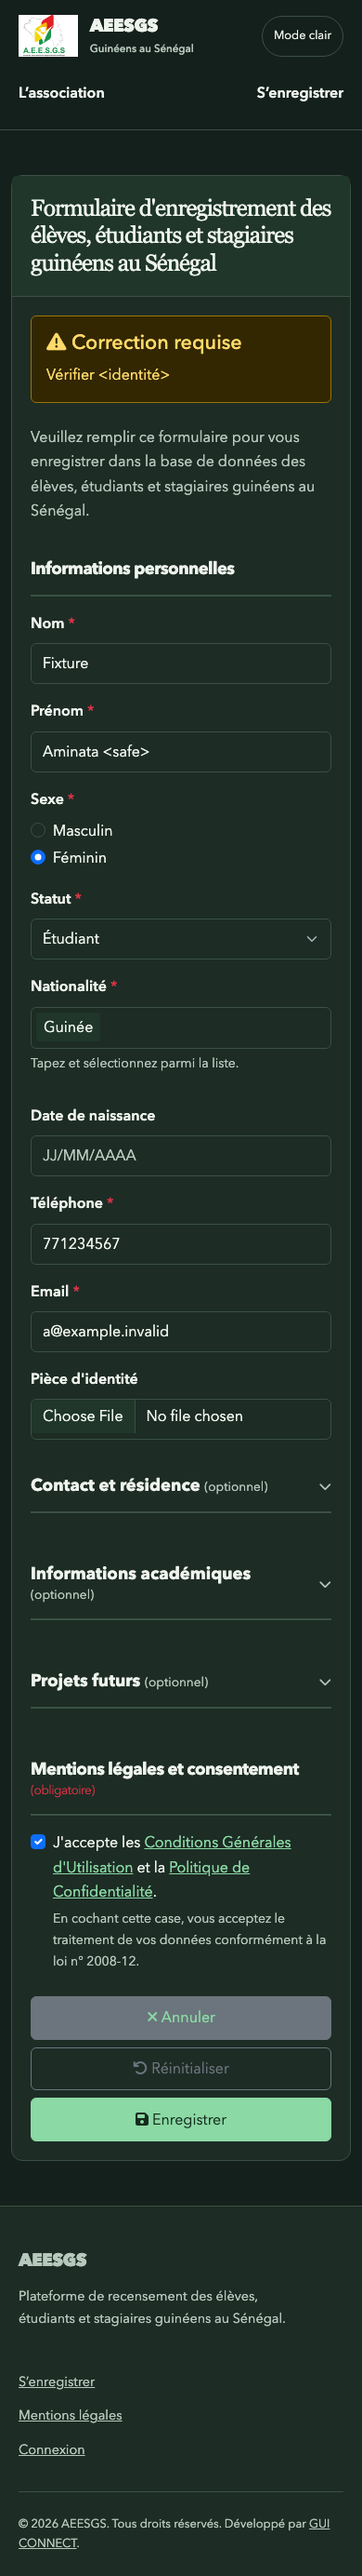
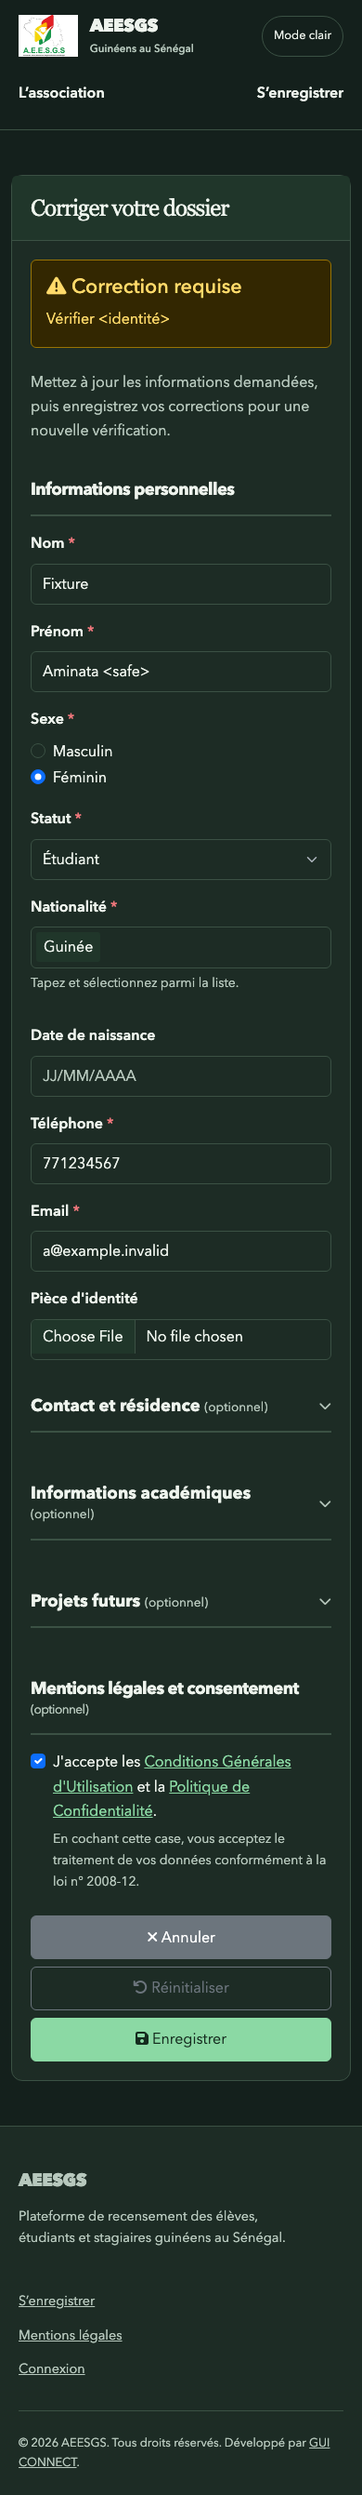
test: verify member token journeys down to 320px

diff --git a/completion.md b/completion.md
@@ -111,7 +111,7 @@ All ticket02 acceptance criteria are now verified locally. Active logo blocker r
 
 Public correction uses ticket03's shared form shell; consent and legal pages now use the public header/footer, themed surfaces, semantic headings and visible keyboard focus. Consent actions retain their POST/CSRF/token contracts and legal content remains unchanged. Fixed existing correction GET fatal (`getAnneeArrivee` → existing `getArrivalYear`). Direct EmailService delivery now applies the existing nonproduction suppression before transport setup, making deletion-request tests safe.
 
-TDD: direct-mail sentinel failed before the suppression guard, then passed; real valid-token HTTP GET failed with the missing getter before its one-line fix, then passed. Final local qualification: token HTTP28 assertions and Chrome43 assertions,12 screenshots,1440/390px light/dark/reduced-motion/keyboard; see [member completion evidence](docs/testing/member-completion.md). PHPUnit141/241 passed with10 existing deprecations; standalone OOP186, integration78, permissions47, password24 passed; changed PHP syntax and whitespace passed. Remote exact-head CI, integration merge and full-spec release remain separate milestones.
+TDD: direct-mail sentinel failed before the suppression guard, then passed; real valid-token HTTP GET failed with the missing getter before its one-line fix, then passed. Final local qualification: token HTTP28 assertions and Chrome61 assertions,12 screenshots,1440/390/320px light/dark/reduced-motion/keyboard; see [member completion evidence](docs/testing/member-completion.md). PHPUnit141/241 passed with10 existing deprecations; standalone OOP186, integration78, permissions47, password24 passed; changed PHP syntax and whitespace passed. Remote exact-head CI, integration merge and full-spec release remain separate milestones.
 
 Existing review tokens have no time-based expiry; tested absent/revoked/deleted/status-invalid links fail safely. No TTL semantics invented. Test email is suppressed, so real delivery is not qualified. Private anonymous download remains denied. Loopback SQLite does not qualify deployment/TLS/two-app isolation.
 

diff --git a/docs/testing/member-completion.md b/docs/testing/member-completion.md
@@ -12,7 +12,7 @@ The runner creates a disposable application/database/session copy, seeds synthet
 
 HTTP: 28 assertions cover correction token rendering and escaped notes, CSRF rejection, validation and retained data, valid resubmission and subsequent ineligible status, missing/random/revoked/deleted tokens, consent pending/accept/update/refuse/deletion-request states, escaped identity, CSRF, legal navigation, and unauthenticated private download denial. The initial valid correction GET exposed an existing missing `getAnneeArrivee()` method call; mapping now uses `Student::getArrivalYear()` and is exercised by the journey.
 
-Chrome: 43 assertions cover correction, consent and legal pages at 1440px and 390px, both device themes, no document overflow, one main/H1, native required correction validation and keyboard focus, visible consent skip/action focus and keyboard submission, and invalid consent state. Reduced-motion preference is active throughout. Twelve screenshots are captured below; mobile consent dark, correction dark and legal light inspected visually. The final screenshots use the refreshed contrast patch.
+Chrome: 61 assertions cover correction, consent and legal pages at 1440px, 390px and 320px, both device themes, no document overflow, one main/H1, native required correction validation and keyboard focus, visible consent skip/action focus and keyboard submission, and invalid consent state. Reduced-motion preference is active throughout. Twelve screenshots are captured below; mobile consent dark, correction dark and legal light inspected visually. The final screenshots use the refreshed contrast patch.
 
 ![Correction, mobile dark](screenshots/correction-mobile-dark.png)
 ![Consent, mobile dark](screenshots/consent-mobile-dark.png)
